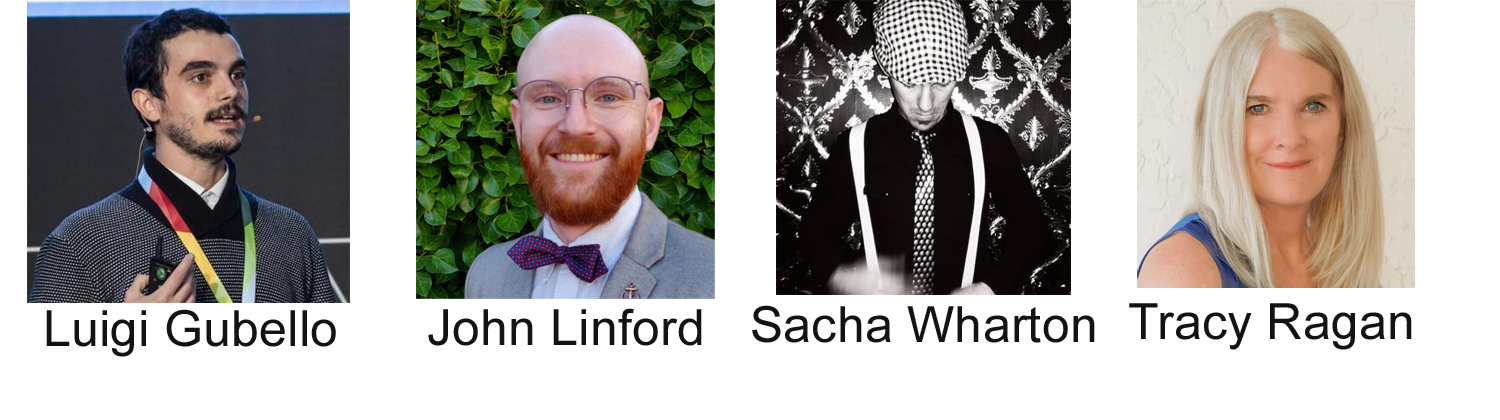
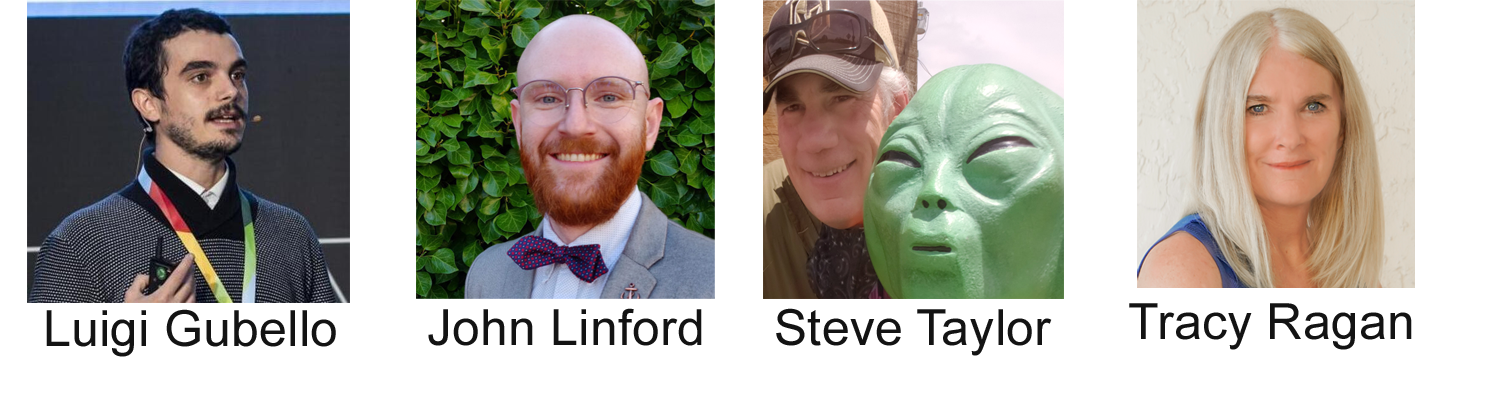
Signed-off-by: tracyragan <tracy@deployhub.com>

Changed region(s): [[0.4907, 0.0, 0.736, 0.8357]]

diff --git a/content/en/events/_index.md b/content/en/events/_index.md
@@ -55,18 +55,25 @@ Caroline Wong is the Chief Strategy Officer at Cobalt.io. She has 15+ years of c
 <img src="/images/cdcon2024.png" alt="cdcon2024" height="168px" width="384px" />
 </div>
 
+Thank you to the CDFoundation for an amazing CDCOn 2024. If you could not attend, no problem. You can now watch all sessions on-demand. Learn from the the Jenkins and Ortelius contributors, Continuous Delivery leaders, industry icons, practitioners, and open source developers how continuous delivery is evolving.
+
+[Watch On Demand](https://www.youtube.com/playlist?list=PLbzoR-pLrL6qHuD538QsuJUw3eRuCfvgU
+)
+
 
 {{< /blocks/feature_dual >}}
 {{< blocks/feature_dual >}}
 
+<div class="col-center">
 <br>
 
-Thank you to the CDFoundation for an amazing CDCOn 2024. If you could not attend, no problem. You can now watch all sessions [On Demand](https://www.youtube.com/playlist?list=PLbzoR-pLrL6qHuD538QsuJUw3eRuCfvgU
-). Learn from the the Ortelius contributors, Continuous Delivery leaders, industry icons, practitioners, and open source developers how continuous delivery is evolving.
+<img src="/images/utkarsh.png" alt="Utkarsh Sharma"  height="200px" width="200px"/>
+</div>
+<br>
 
-A special congratulations to Utkarsh Sharma for receiving both the Ortelius MVP Award and the CDF Top Contributor Award. Thank you for your excellence Utkarsh. 
+A special congratulations to [Utkarsh Sharma](https://cd.foundation/blog/2023/12/13/utkarsh-sharma-achieves-gold-legend-status/) for receiving both the Ortelius MVP Award and the CDF Top Contributor Award. Thank you for your excellence Utkarsh. 
 
-cdCon is the annual event hosted by the Continuous Delivery Foundation that brings together technology teams, enterprise leadership, and open source communities to drive the future of software delivery. This year, cdCon is part of Open Source Summit North America, along with many other great events.
+cdCon is the annual event hosted by the Continuous Delivery Foundation that brings together technology teams, enterprise leadership, and open source communities to drive the future of software delivery. This year, cdCon was part of Open Source Summit North America, along with many other great events.
 
 
 

diff --git a/content/en/blog/news/SecureChain2024.md b/content/en/blog/news/SecureChain2024.md
@@ -136,15 +136,14 @@ All times in Mountain Time.
 
 <strong>10:00 - Keynote with Caroline Wong - Fortifying the Fortress: Exploring Offensive and Defensive Strategies in Cybersecurity</strong>
 
-10:20 - Securing Software: A Panel Discussion on Actionable Metrics and Metadata hosted by Sacha Wharton. Panelist include:
-- Luigi Gubello - Sr. Security Engineer, Pitch
+10:20 - Securing Software: A Panel Discussion on Actionable Metrics and Metadata hosted by Steve Taylor. Panelist include:
+- Luigi Gubello - Sr. Security Engineer, Pitch and OpenSSF Committee Chair Metrics and Meta Data Working Group
 - John Linford - Security Portfolio Forum Director, The Open Group
 - Tracy Ragan - CEO, DeployHub, Inc. 
 
 <div class="col-center">
-<img src="/images/panelspeakersphotos.png" alt="2024 SecureChainCon Panel Speakers" height="600px" width="1500px" />
+<img src="/images/speakersphotos.png" alt="2024 SecureChainCon Speakers" height="600px" width="1500px" />
 </div>
-
 
 
 11:00 Break - Twitch Games
